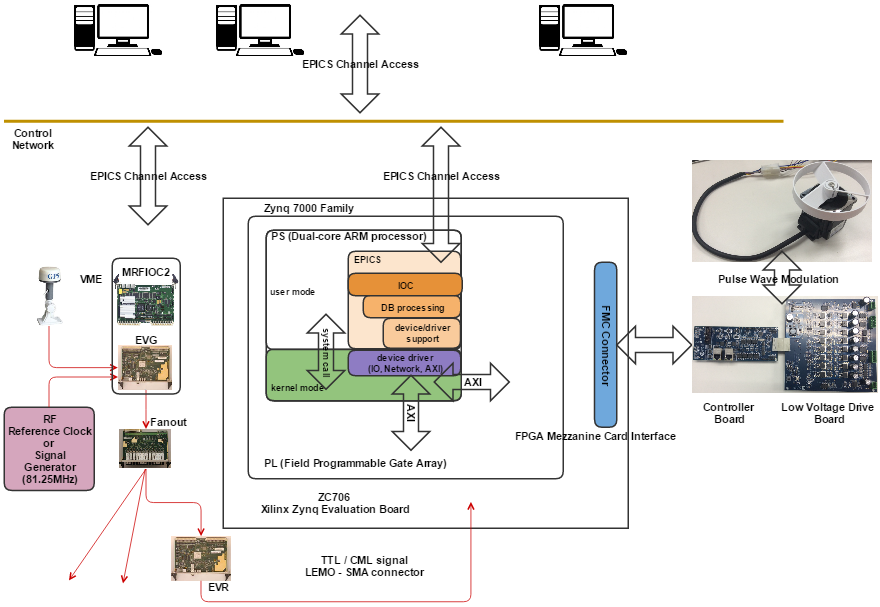
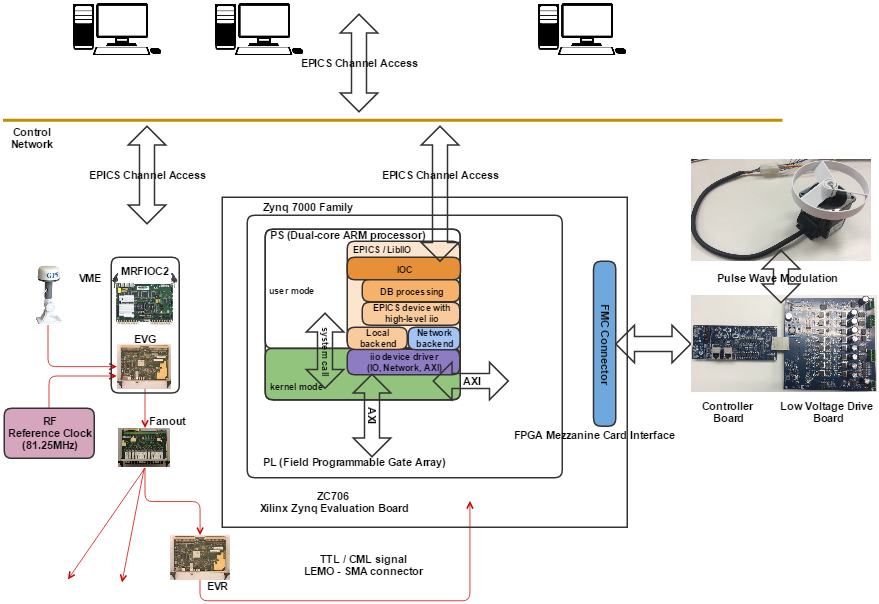
ICALEPCS 2015

diff --git a/icalepcs2015/timing_app.tex b/icalepcs2015/timing_app.tex
@@ -60,7 +60,7 @@
 
 
 \section{Introduction}
-The RAON is a new heavy ion accelerator under construction in South Korea, which is to produce a variety of stable ion and rare isotope beams to support various researches for the basic science and applied research applications.\cite{TSHOO:NIMB} To produce the isotopes to fulfill the requirements we have planed the several modes of operation scheme which require fine-tuned synchronous controls, asynchronous controls, or both among the accelerator complexes. RAON, which is a large experimental facility, consists of many experimental devices and additional facilities. For synchronized control under the distributed environment, timing system of the RAON uses the VME-based EVG/EVR system.
+The RAON is a new heavy ion accelerator under construction in South Korea, which is to produce a variety of stable ion and rare isotope beams to support various researches for the basic science and applied research applications\cite{TSHOO:NIMB}. To produce the isotopes to fulfill the requirements we have planed the several modes of operation scheme which require fine-tuned synchronous controls, asynchronous controls, or both among the accelerator complexes. RAON, which is a large experimental facility, consists of many experimental devices and additional facilities. For synchronized control under the distributed environment, timing system of the RAON uses the VME-based EVG/EVR system.
 
 \section{Timing System}
 The timing system uses the Event Generator(EVG)/Event Receiver (EVR)\cite{mrf} system of the Micro-Research Finland Oy company and VME form factor. The timing system consists of an EVG which converts timing events and signals to an optical signal distributed through Fan-Out units to an array of EVRs. The EVRs decode the optical signal and produce hardware and software output signals based on the timing events. The VME controller installed in VME crate uses MVME6100 or 3100 of Emerson company. The VME controllers use real-time operating system, VxWorks 6.9 for a fast response. Those controllers control FPGA-based EVG/EVR boards using mfrioc2 of EPICS IOCs on VxWorks.
@@ -132,23 +132,23 @@ To operate linux OS on the ARM processor of the zynq PS there consists of:
 	\item Board Support Package (Linux Device Tree)
 	\item Root File System (Busybox)
 \end{Itemize}
-Linaro is a not-for-profit engineering organization that works on free and open-source software such as the Linux kernel, the GNU Compiler Collection (GCC), power management, graphics and multimedia interfaces for the ARM family of instruction sets and implementations thereof as well as for the Heterogeneous System Architecture.\cite{linaro}   
+Linaro is a not-for-profit engineering organization that works on free and open-source software such as the Linux kernel, the GNU Compiler Collection (GCC), power management, graphics and multimedia interfaces for the ARM family of instruction sets and implementations thereof as well as for the Heterogeneous System Architecture\cite{linaro}.   
 The linaro kernel source is the ubuntu-based kernel source including a lot of device driver such as zynq device tree.
-
+The bootloader of PS uses u-boot\cite{u-boot} supporting for the zynq device of Xilinx. To boot the zynq device, it should be made up the boot.bin file created by vivado\cite{vivado} tool. The boot.bin\cite{boot-bin} file consists of fsbl.elf (First Stage BootLoader), u-boot.elf (Second BootLoader), uImage (kernel zImage for uboot ), zynq.bif (Boot Image Format file) and user.bit (bitstream file of FPGA). The linux kernel is using the root file system generated by the busybox\cite{busybox} tool.
 
 \subsection{Linux Device Driver}
+Linux device driver for zynq PS uses Industrial IO (IIO) module of the Analog Devices. Libiio\cite{iio} is a library that has been developed by Analog Devices to ease the development of software interfacing Linux Industrial I/O (IIO) devices. Localbackend module of Fig.~\ref{stepper} through the system call goes into kernel mode and accesses the iio device driver via "struct file\_operations". Basically the iio device driver implemented with the charater device type.
 
 \subsection{Controller for Motor Drive}
 
+%https://wiki.analog.com/resources/eval/user-guides/ad-fmcmotcon2-ebz/hardware/lv_board
+%https://wiki.analog.com/resources/eval/user-guides/ad-fmcmotcon2-ebz/hardware/controller_board
 \subsection{Interface}
-\subsubsection{FPGA Interface}
-\subsubsection{EPICS Interface} 
 
-The title should use \SI{14}{pt} bold uppercase letters and be centered on the page.
-Individual letters may be lowercase to avoid misinterpretation (e.g., mW, MW).
-To include a funding support statement, put an asterisk after the title and
-the support text at the bottom of the first column on page~1---in Word,
-use a text box; in \LaTeX, use $\backslash$\texttt{thanks}.
+\subsubsection{EPICS Interface} 
+As shown Fig.~\ref{stepper}, EPICS IOC has implemented using the libiio library that abstracted the low-level details of the hardware.
+
+\subsubsection{FPGA Interface}
 
 
 \begin{figure*}[!tbh]
@@ -158,7 +158,13 @@ use a text box; in \LaTeX, use $\backslash$\texttt{thanks}.
     \label{stepper}
 \end{figure*}
 
+\hfil\break
 
+Linaro is a not-for-profit engineering organization that works on free and open-source software such as the Linux kernel, the GNU Compiler Collection (GCC), power management, graphics and multimedia interfaces for the ARM family of instruction sets and implementations thereof as well as for the Heterogeneous System Architecture\cite{linaro}.   
+The linaro kernel source is the ubuntu-based kernel source including a lot of device driver such as zynq device tree.
+The bootloader of PS uses u-boot\cite{u-boot} supporting for the zynq device of Xilinx. To boot the zynq device, it should be made up the boot.bin file created by vivado\cite{vivado} tool. The boot.bin\cite{boot-bin} file consists of fsbl.elf (First Stage BootLoader), u-boot.elf (Second BootLoader), uImage (kernel zImage for uboot ), zynq.bif (Boot Image Format file) and user.bit (bitstream file of FPGA). The linux kernel is using the root file system generated by the busybox\cite{busybox} tool.
+
+\clearpage
 \section{Summary}
 
 Table~\ref{app-conf} summarizes the fonts and spacings used in the styles of
@@ -207,7 +213,13 @@ a JACoW template (these are implemented in the \LaTeX\ class file).
     \end{tabular}
 \end{table}
 
+\newpage
 \section{Conclusion}
+Any conclusions should be in a separate section directly preceding
+the \SEC{Acknowledgment}, \SEC{Appendix}, or \SEC{References} sections, in that
+order.
+
+\section{Future Work}
 Any conclusions should be in a separate section directly preceding
 the \SEC{Acknowledgment}, \SEC{Appendix}, or \SEC{References} sections, in that
 order.
@@ -245,8 +257,6 @@ This work is supported by the Rare Isotope Science Project funded by Ministry of
 	%\menu[,]{for Authors,Help,Using \LaTeX}
 	\url{http://www.mrf.fi}%
 %	last visit 27 March 2014.\newline \mbox{ }
-	\hfill\textcolor{red}{\{no hyperlink, no period after URL\}}
-
 
 \bibitem{xilix}
 Xilinx-FPGA website:
@@ -281,25 +291,29 @@ Linaro :
 %\menu[,]{for Authors,Help,Using \LaTeX}
 \url{https://en.wikipedia.org/wiki/Linaro}
 
-
-\bibitem{exampl-ref}
-	A.N. Other,
-	``A Very Interesting Paper'',
-	EPAC'96, Sitges, June 1996, MOPCH31 (1996),
-	\url{http://www.JACoW.org}\newline \mbox{ } \hfill\textcolor{red}{\{no hyperlink, no period after URL\}}
-
-\bibitem{exampl-ref2}
-	F.E.~Black et al.,
-	\textit{This is a Very Interesting Book},
-	(New York: Knopf, 2007), 52.
-
-\bibitem{exampl-ref3}
-    G.B.~Smith et al., ``Title of Paper'',
-    MOXAP07, \textit{These Proceedings}, IPAC'14, Dresden, Germany (2014).
-
-	\hspace*{-1.1em}\mbox{\vdots}
+\bibitem{u-boot}
+U-Boot website :
+\url{http://www.denx.de/wiki/U-Boot}
 
 
+\bibitem{vivado}
+Xilinx Vivado website :
+\url{http://http://www.xilinx.com/products/design-tools/vivado.html}
+http://www.xilinx.com/products/design-tools/vivado.html
+
+\bibitem{boot-bin}
+Boot Image Document website :
+\url{http://www.wiki.xilinx.com/Prepare+boot+image}
+
+\bibitem{busybox}
+BusyBox Document website :
+\url{http://www.busybox.net/}
+
+\bibitem{iio}
+Industrial I/O Document website :
+\url{https://wiki.analog.com/resources/tools-software/linux-software/libiio}
+
+https://wiki.analog.com/resources/tools-software/linux-software/libiio
 \end{thebibliography}
 
 \fi
